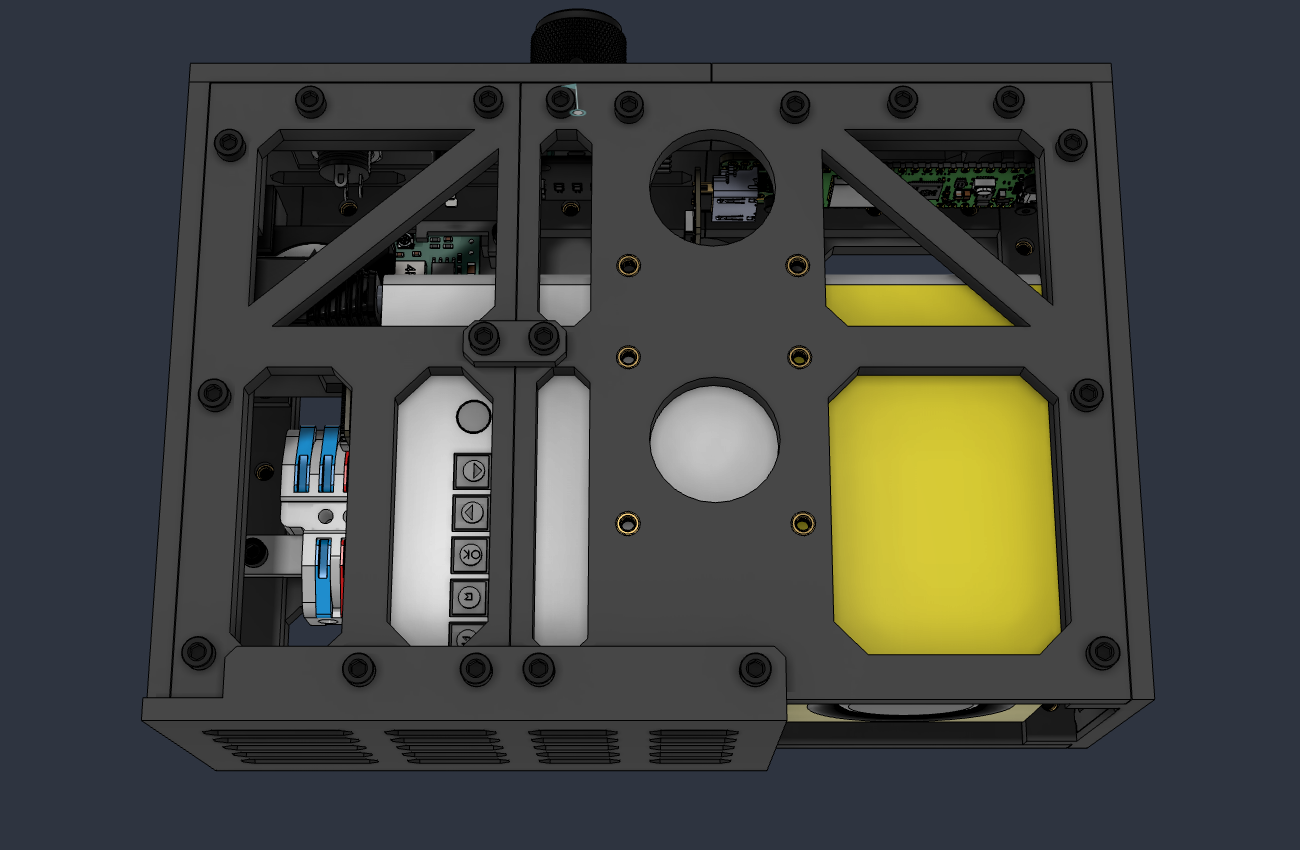
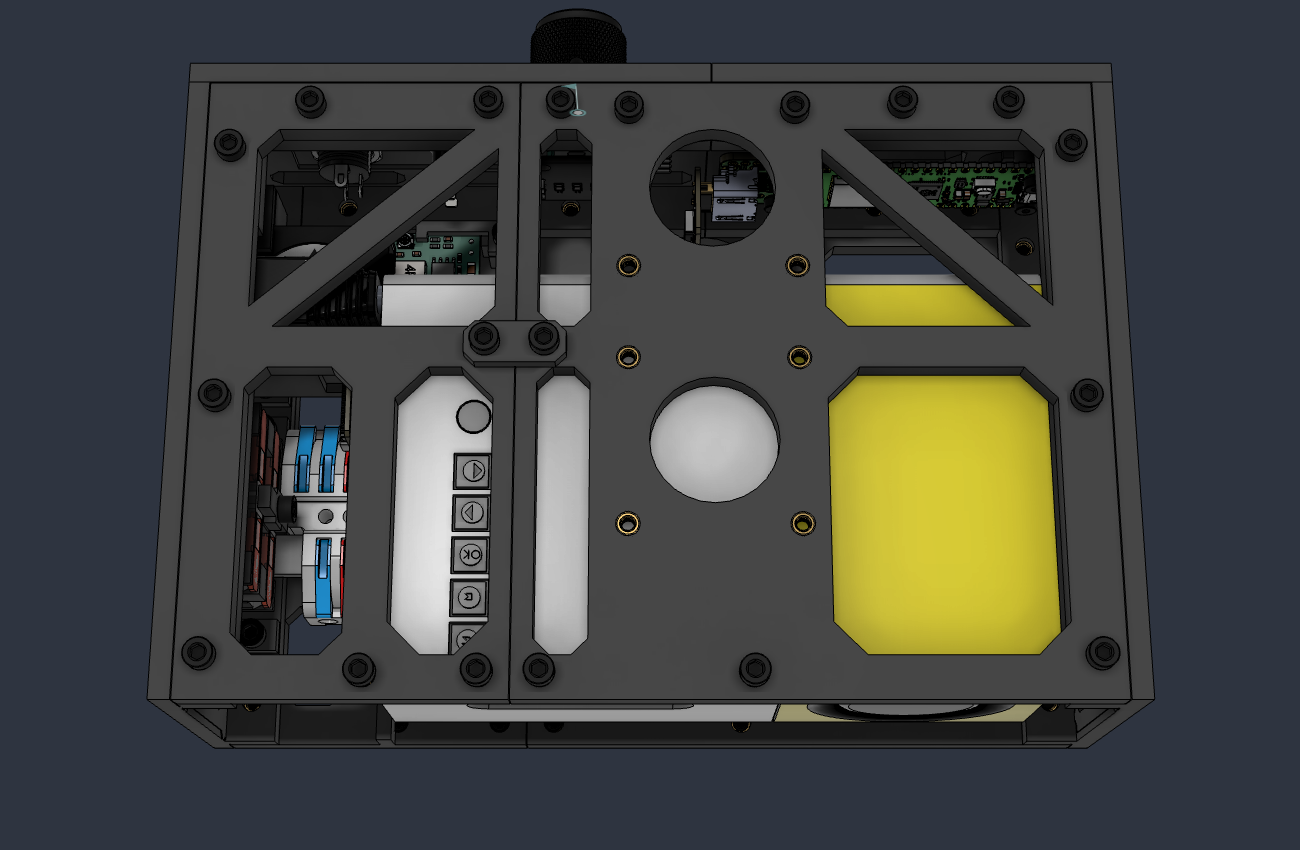
Enclosure: Wago holder, slicer step for the brackets, 127 fasteners
Two Wago 221-2411 in a bracket with a clamp bar on the port end frame. CAGE.md, README.md, DESIGN_LANGUAGE.md and cad/fasteners.json follow: 20 pieces, 127 fasteners, 126 copies. Slicer step for the blower bracket and the Wago bracket written down. Pictures 04, 05, 06 again, 10 is new. Fusion: komorebi-cage version 23, komorebi-box version 49.

Claude-Session: https://claude.ai/code/session_01QMJv3CE2wa8HX6C5WvgqiM

diff --git a/enclosure/CAGE.md b/enclosure/CAGE.md
@@ -28,7 +28,7 @@ More views are in [assets](assets): the underside with the seam strap and the tw
 7. [x] **Third review: front grill.** Done `2026-11-23`, see [Review, third round](#review-third-round) and [Front grill](#front-grill).
 8. [x] **Fastener models placed.** Done `2026-11-23`. Saurabh brought six models into `komorebi-box`. 108 copies sit on their places, see [Fastener models](#fastener-models).
 9. [x] **Sizes against the real projector, then the lips.** Done `2026-11-25`. The real projector did not fit front to back. The cage keeps its size, the lips changed, see [Projector stops](#projector-stops).
-10. [x] **Fourth review, after the first prints.** Done `2026-11-25`: clamp bars, M2.5 for the Pico, the terminal block, truss side panels, the blower. See [Review, fourth round](#review-fourth-round).
+10. [x] **Fourth review, after the first prints.** Done `2026-11-25`: clamp bars, M2.5 for the Pico, the terminal block, truss side panels, the blower, the Wago holder. See [Review, fourth round](#review-fourth-round).
 11. [ ] **Print what changed.** The list is in [Print again](#print-again).
 12. [ ] **Blower against the real heat sink.** Its place is a guess, see [Blower](#blower).
 13. [ ] **Assembly notes.**
@@ -68,7 +68,7 @@ From Saurabh on `2026-11-25`, after the first prints:
 
 ## Numbers
 
-All in mm, in the coordinates of `komorebi-box`: Y is up, the lens face is +Z, the projector's ports are on the -X end. The numbers of `2026-11-23` are the `P` table at the top of [cad/build_cage.py](cad/build_cage.py). The blocks `projector_stops`, `side_panels`, `terminal_block` and `blower` are not in the script, see [Fusion traps](#fusion-traps).
+All in mm, in the coordinates of `komorebi-box`: Y is up, the lens face is +Z, the projector's ports are on the -X end. The numbers of `2026-11-23` are the `P` table at the top of [cad/build_cage.py](cad/build_cage.py). The blocks `projector_stops`, `side_panels`, `terminal_block`, `blower` and `wago_holder` are not in the script, see [Fusion traps](#fusion-traps).
 
 ```json
 {
@@ -164,6 +164,13 @@ All in mm, in the coordinates of `komorebi-box`: Y is up, the lens face is +Z, t
     "bracket_screws_z": [-45.5, -33.65],
     "clamp_screw": [-115.0, -63.25]
   },
+  "wago_holder": {
+    "wago_x": [-118.5, -110.4],
+    "wago_z": [-20.3, 15.0],
+    "wago_y": [[15.7, 23.5], [30.7, 38.5]],
+    "bracket_screws_z": [-24.0, 19.0],
+    "clamp_screw": [27.1, -2.65]
+  },
   "holes": {
     "m3_insert": 4.0,
     "m3_clearance": 3.4,
@@ -194,6 +201,7 @@ Sizes are measured in `komorebi-box`. Use `root.allOccurrences` for that, see [F
 | Buck converter | `DC-DC 4.5-28V to 0.8-20V Output 3A MP1584EN Step Down Buck Converter` | 22.4 x 17.1 x 4.6 | On the bay floor, lifted 5 | `Buck converter holder: tray` and its clamp bar, one M3 |
 | Terminal block | `Terminal Block LT-422` | 23.4 x 14.5 x 39.5 | On the floor of the port bay, the four-wire end to the rear | `Terminal block holder: clamp bar`, one M3 and a peg |
 | Blower | `30mm Fan Mockup 3010 v5` | 30 x 30 x 10 | Flat in the port bay under the DC plug, inlet down, outlet to the projector | `Blower holder: bracket` and its clamp bar |
+| Wago, two of them | `Wago 221-2411 v2` | 7.8 x 8.1 x 35.3 | On the wall of the -X end frame beside the terminal block, one above the other, levers toward the bay | `Wago holder: bracket` and its clamp bar |
 | Light sensor | `BH1750` | flange 28 across, dome 25.5 | In its module, now on the floor, dome down | `Light sensor module: plate` |
 | Tripod adapter | `Bottom Adapter for Magic Arm Nut` | 60 x 60 x 10 | On the floor's tripod port, turned 45 degrees | Four M3 from outside |
 
@@ -203,7 +211,7 @@ The models say `Raspberry_Pi_Pico_W` and `Adafruit DVI Sock`. The real boards ar
 
 ## Printed parts
 
-In `komorebi-cage`: 17 components, 18 pieces with the second strap. Every part lies flat on the bed and needs no supports. The largest is 120 x 120, so a 5 mm brim fits everywhere.
+In `komorebi-cage`: 19 components, 20 pieces with the second strap. Every part lies flat on the bed and needs no supports. The largest is 120 x 120, so a 5 mm brim fits everywhere.
 
 | Part | Component | Copies | Size | What it is |
 | --- | --- | --- | --- | --- |
@@ -212,7 +220,7 @@ In `komorebi-cage`: 17 components, 18 pieces with the second strap. Every part l
 | Top plate | `Cage: top plate` | 1 | 110.1 x 119.8 x 5 | The +X part. Both module ports, the window over the lens end, one truss window |
 | Top plate, port | `Cage: top plate, port` | 1 | 59.8 x 119.8 x 5 | The -X part. Windows over the port bay and over the projector's buttons, one truss window |
 | End frame | `Cage: end frame` | 1 | 120 x 61 x 14 | The +X end. Web 4 thick with three truss bays, a flange at the bottom and at the top. Its bottom flange is the projector's end stop. See [Side panels](#side-panels) |
-| End frame, port | `Cage: end frame, port` | 1 | 120 x 61 x 14 | The -X end. The same three bays. The top flange has a notch for the DC plug at the rear. The bottom flange has three more inserts, for the terminal block and the blower |
+| End frame, port | `Cage: end frame, port` | 1 | 120 x 61 x 14 | The -X end. The same three bays. The top flange has a notch for the DC plug at the rear. The bottom flange has five more inserts, for the terminal block, the blower and the Wago holder |
 | Rear frame | `Cage: rear frame` | 1 | 77.4 x 61 x 17 | The +X part, behind the Pico. Window behind the Pico, two holes for the Pico holder |
 | Rear frame, port | `Cage: rear frame, port` | 1 | 100.9 x 61 x 17 | The -X part, with the knob, the button and the DC socket |
 | Seam strap | `Cage: seam strap` | 2 | 19 x 8 x 3 | Flat bar with two holes across the plate seam, on the outside. One on the floor, one on the top, in the middle of the seam |
@@ -223,6 +231,8 @@ In `komorebi-cage`: 17 components, 18 pieces with the second strap. Every part l
 | Terminal block clamp bar | `Terminal block holder: clamp bar` | 1 | 14 x 8.2 x 6 | Bar 3 thick with one hole and a peg 3 long, see [Terminal block](#terminal-block) |
 | Blower bracket | `Blower holder: bracket` | 1 | 39.7 x 29.8 x 32.2 | Foot, leg and three rails for the blower. Prints on its wall face, see [Blower](#blower) |
 | Blower clamp bar | `Blower holder: clamp bar` | 1 | 13.5 x 9 x 5.4 | Bar 2.4 thick with one hole and a peg 3 long. Prints peg up |
+| Wago bracket | `Wago holder: bracket` | 1 | 49.1 x 33.4 x 9.4 | Two pads, a back frame, seats for two Wagos and a boss with an insert. Prints on its wall face, see [Wago holder](#wago-holder) |
+| Wago clamp bar | `Wago holder: clamp bar` | 1 | 20.2 x 7 x 2.4 | Flat bar with one hole, narrow where it crosses the Wagos |
 | Sensor module | `Light sensor module: plate` | 1 | 44 x 44 x 4 | Plate with the dome hole and a seat for the sensor's flange |
 
 How it is built:
@@ -321,12 +331,28 @@ A 30 x 30 x 10 radial blower, added by Saurabh on `2026-11-25`. Air goes in on o
 - **The wires keep their room.** Under the rails 20 mm stay free above the floor, 9.5 above the buck tray.
 - **The bracket stands on the bottom flange of the -X end frame.** Two M3 x 8 into inserts in the flange. The blower rests on three rails, so the screws stay reachable and the inlet stays open.
 - **The blower goes in from above,** front edge under the lip of the bracket. The clamp bar holds the rear edge with one M3 x 8, its peg sits in the blower's mounting hole.
-- **The bracket prints on its wall face.** Every feature rises from that face, so it needs no supports.
+- **The bracket prints on its wall face.** Every feature rises from that face, so it needs no supports. In PrusaSlicer: Place on face, click the flat back. Z then reads 32.2.
 
 > [!Important]
 > **The place of the heat sink is a guess.** We take it on the -X side in the rear half, behind the vent slits of the cover. The outlet is 24.7 to 32.3 mm above the floor. About 9 of its 21 mm blow behind the projector's rear face. The HDMI plug is 1.2 mm in front of the blower, so it cannot move forward at this height. **Measure the heat sink in the open projector before printing the bracket.**
 
 ![Blower under the DC plug, top plate and projector hidden](assets/cage-09-blower.png)
+
+### Wago holder
+
+Two Wago 221-2411 splicing connectors, added by Saurabh on `2026-11-25`. They join the output of the buck converter to the wires of the blower. One Wago is 7.8 x 8.1 x 35.3.
+
+- **They sit on the wall of the -X end frame,** between the blower bracket and the front corner, beside the terminal block. One above the other, wires in and out along Z.
+- **The levers face the bay.** They are reached through the window of the port top plate.
+- **The bracket stands on the bottom flange of the -X end frame** with two pads. Two M3 x 8 into inserts in the flange, one before and one behind the Wagos, so a driver gets to both.
+- **A clamp bar holds both Wagos.** It crosses them in the middle, between the lever tips, with one M3 x 8 into an insert in the bracket.
+- **It is smaller than his old holder.** That one was 62.5 x 20 x 15.6 with two screw ears. This one stands 9.4 off the wall, 49.1 long and 33.4 high.
+- **The bracket prints on its wall face.** In PrusaSlicer: Place on face, click the flat back. Z then reads 9.4.
+
+> [!Important]
+> **The terminal block goes in first.** The screw of its clamp bar is under the Wagos. To take the terminal block out, the Wago bracket comes off first.
+
+![Two Wagos in their holder beside the terminal block, top plate and projector hidden](assets/cage-10-wago-holder.png)
 
 ### Buck tray
 
@@ -350,15 +376,15 @@ The holes are in the model. The list is [cad/fasteners.json](cad/fasteners.json)
 
 | Fastener | Count | Where |
 | --- | --- | --- |
-| **M3 heat-set insert**, 4.0 hole | 59 | 26 in the frame flanges for the plates, 12 in the four module ports, 8 in the plates for the front grill, 4 in the plates for the two seam straps, 2 in the Pico holder, 2 in the floor for the buck tray, 1 in the buck tray for its clamp bar, 3 in the bottom flange of the -X end frame for the terminal block and the blower bracket, 1 in the blower bracket for its clamp bar |
-| **M3 x 8**, cap head | 45 | 24 plate to frame, 8 front grill, 4 seam straps, 2 sensor module, 2 Pico holder, 1 buck clamp bar, 1 terminal block clamp bar, 2 blower bracket, 1 blower clamp bar |
+| **M3 heat-set insert**, 4.0 hole | 62 | 26 in the frame flanges for the plates, 12 in the four module ports, 8 in the plates for the front grill, 4 in the plates for the two seam straps, 2 in the Pico holder, 2 in the floor for the buck tray, 1 in the buck tray for its clamp bar, 5 in the bottom flange of the -X end frame for the terminal block, the blower bracket and the Wago bracket, 1 in the blower bracket and 1 in the Wago bracket for their clamp bars |
+| **M3 x 8**, cap head | 48 | 24 plate to frame, 8 front grill, 4 seam straps, 2 sensor module, 2 Pico holder, 1 buck clamp bar, 1 terminal block clamp bar, 2 blower bracket, 1 blower clamp bar, 2 Wago bracket, 1 Wago clamp bar |
 | **M3 x 12**, cap head | 2 | Sensor module, through the plate into the rear flange |
 | **M3 x 6**, cap head | 6 | 4 tripod adapter, 2 buck tray |
 | **M2.5 heat-set insert**, 4.0 hole | 4 | Pico holder posts |
 | **M2.5 x 5**, cap head | 4 | Pico and DVI sock onto the posts |
 | **1/4-20 x 10**, camera screw | 1 | Through the floor into the projector's own tripod thread |
 
-That is 121 in all. On `2026-11-23` it was 109: the twelve more are six inserts and six M3 x 8.
+That is 127 in all. On `2026-11-23` it was 109: the eighteen more are nine inserts and nine M3 x 8.
 
 Where the 26 frame screws are:
 
@@ -370,7 +396,8 @@ Where the 26 frame screws are:
 | Rear frame, port part | 4 | 4 |
 
 - **The port end frame has three on top again.** The DC plug sits at the rear now and has a notch in the flange there.
-- **Three inserts in the bottom flange of the port end frame go in from above.** They hold the terminal block clamp bar and the blower bracket.
+- **Five inserts in the bottom flange of the port end frame go in from above.** They hold the terminal block clamp bar, the blower bracket and the Wago bracket.
+- **One screw lies on its side:** the one of the Wago clamp bar goes in along X.
 - **Two of the rear screws on each plate are the rear holes of the bay port.** On the floor the sensor module sits there, so those two are its M3 x 12. On the top they are plain M3 x 8.
 - **Four of the eight grill inserts are the old front strap inserts.** Two per plate, left and right of the seam.
 - **No countersinks.** The cap heads stand proud.
@@ -383,17 +410,17 @@ Where the 26 frame screws are:
 
 | Kind in the list | Model in `komorebi-box` | Copies |
 | --- | --- | --- |
-| `M3 insert` | `M3 heat-set insert, 4.0 hole` | 59 |
-| `M3 x 8` | `M3 x 8 cap head` | 45 |
+| `M3 insert` | `M3 heat-set insert, 4.0 hole` | 62 |
+| `M3 x 8` | `M3 x 8 cap head` | 48 |
 | `M3 x 12` | `M3 x 12 cap head` | 2 |
 | `M3 x 6` | `M3 x 6 cap head` | 6 |
 | `M2.5 insert` | `M2.5 heat-set insert, 4.0 hole` | 4 |
 | `M2.5 x 5` | `M2.5 x 5 cap head` | 4 |
 | `1/4-20 x 10` | No model | 0 |
 
-- **The copies are in `komorebi-box`,** in the component `Fasteners`, 120 of them. Not in `komorebi-cage`: that file holds only what gets printed.
+- **The copies are in `komorebi-box`,** in the component `Fasteners`, 126 of them. Not in `komorebi-cage`: that file holds only what gets printed.
 - **[cad/place_fasteners.py](cad/place_fasteners.py) places them** from [cad/fasteners.json](cad/fasteners.json). It moves the copies, adds the missing ones and deletes the ones too many.
-- **The twelve new rows of `2026-11-25` were added to the list by hand,** and the copies were placed by hand. The list and the copies match, see [Checks](#checks).
+- **The eighteen new rows of `2026-11-25` were added to the list by hand,** and the copies were placed by hand. The list and the copies match, see [Checks](#checks).
 - **An insert sits flush with the mouth of its hole,** wide end out. A screw sits with the underside of its head on the part.
 - **The 1/4 inch screw has no model.** Saurabh's call. It stays in the list and in the count.
 
@@ -449,16 +476,18 @@ Saurabh on `2026-11-25`, with almost everything printed except the front grill:
 - **The real projector does not fit front to back, 5 mm more?** Two ways shown. His call: keep the cage, the grill stops it. See [Projector stops](#projector-stops).
 - **The DC plug sits at the wrong place in the model, and the side panels look wrong.** The plugs moved to the real places, lump sum from his photo. Both side panels are truss bays now, see [Side panels](#side-panels).
 - **A blower for the heat sink in the tight back corner.** Done, see [Blower](#blower).
+- **How is the blower bracket supposed to print?** On its wall face. The slicer step is written down now, see [Blower](#blower).
+- **Two Wagos between the buck converter and the blower's wires,** in a holder smaller than his old one. Done, see [Wago holder](#wago-holder).
 
 ---
 
 ## Checks
 
-Done on `2026-11-25` in `komorebi-cage` version 19 and `komorebi-box` version 43, by cutting the bodies with each other.
+Done on `2026-11-25` in `komorebi-cage` version 23 and `komorebi-box` version 49, by cutting the bodies with each other.
 
-- **No printed part cuts into another printed part.** All 18 pieces against each other.
-- **The blower, the DC plug, the HDMI plug and the two blower parts cut into nothing they should not.** The plugs sit in the projector's jacks, as before.
-- **Every fastener copy sits on its row of the list.** 120 of 120, checked by their boxes. The camera screw has no model.
+- **No printed part cuts into another printed part.** All 20 pieces against each other.
+- **The blower, the two Wagos, the DC plug, the HDMI plug and the four new holder parts cut into nothing they should not.** The plugs sit in the projector's jacks, as before.
+- **Every fastener copy sits on its row of the list.** 126 of 126, checked by their boxes. The camera screw has no model.
 - **Every printed part is inside 120 x 120.** With a 5 mm brim that is 130 x 130 on the 180 x 180 bed.
 
 Room around the new parts:
@@ -472,6 +501,10 @@ Room around the new parts:
 | DC plug and port top plate | 3.0 |
 | HDMI plug and terminal block | 16.5 |
 | Blower bracket and buck tray | 9.8 |
+| Wago bracket and blower bracket | 0.4 |
+| Wago and terminal block | 0.6 |
+| Wago clamp bar and terminal block | 1.9 |
+| Wago and HDMI plug | 15.5 |
 
 > [!Warning]
 > **Two M2.5 heads at the Pico's USB end sit 0.35 mm in the shell of the USB socket,** in the model. File a flat on the two heads, or put that pair back to M2.
@@ -487,6 +520,8 @@ From `2026-11-23`, not checked again:
 
 - [ ] **Place and height of the heat sink in the open projector.** The blower's place hangs on it, see [Blower](#blower).
 - [ ] **Blower: mounting hole and voltage.** The peg of the clamp bar is 2.0 mm, the hole in the mock-up is 2.4. The mock-up's label says 24 V, the supply is 12 V.
+- [ ] **Wago levers beside the clamp bar.** The bar is 4.5 wide where it crosses the Wagos, the gap between the lever tips is 6.5. Check on the real Wagos that the levers open.
+- [ ] **Wago beside the terminal block,** 0.6 mm in the model. Both places come from models, not from the real parts.
 - [ ] **Micro USB plug against the rear brace of the +X end frame.** By the numbers a plug body of 10 x 7 mm passes with about 1 mm, one of 11 mm touches. Measure the plug before printing that frame.
 - [ ] **Two M2.5 heads against the USB socket,** see [Checks](#checks).
 - [ ] **M2.5 insert hole,** 4.0 or 3.8, see [Fasteners](#fasteners).
@@ -497,7 +532,7 @@ From `2026-11-23`, not checked again:
 - [ ] **Which plug goes into the projector.** `HDMI-CY-17-UP` is plugged in now. Both CY models are 10.5 wide, which is mini HDMI size.
 - [ ] **Grill in front of the projector's front vent.** The middle slot row is on the vent, two mullions cross it. Not checked with the projector running.
 - [ ] **Head of the camera screw.** No model. A head up to 21 mm across clears the lip of the grill.
-- [ ] **[cad/build_cage.py](cad/build_cage.py) is behind the cage.** Bring it up to version 19 or retire it, see [Fusion traps](#fusion-traps).
+- [ ] **[cad/build_cage.py](cad/build_cage.py) is behind the cage.** Bring it up to version 23 or retire it, see [Fusion traps](#fusion-traps).
 - [x] **Lips or loose stops.** Decided on `2026-11-25`: fewer lips, the grill is the front stop, see [Projector stops](#projector-stops).
 - [x] **Snap hooks against the real board.** The snap arms are gone, a clamp bar holds the board, see [Buck tray](#buck-tray).
 
@@ -513,14 +548,16 @@ Print:
 2. **`Buck converter holder: tray`** and **`Buck converter holder: clamp bar`.**
 3. **`Pico holder: base`:** M2.5 posts.
 4. **`Terminal block holder: clamp bar`.**
-5. **`Blower holder: bracket`** and **`Blower holder: clamp bar`:** after the heat sink is measured.
+5. **`Blower holder: bracket`** and **`Blower holder: clamp bar`:** after the heat sink is measured. The bracket lies on its wall face, Z reads 32.2 in the slicer.
 6. **`Cage: front grill`:** not printed yet, print the current one.
+7. **`Wago holder: bracket`** and **`Wago holder: clamp bar`.** The bracket lies on its wall face, Z reads 9.4 in the slicer.
 
 Change by hand on the printed parts:
 
 1. **`Cage: top plate, port`:** drill one 3.4 mm hole, 8 mm from the front edge and 4.8 mm from the -X edge. A hole drilled earlier at 32.5 mm from the front edge is not used any more.
 2. **`Cage: floor plate`:** cut off the front lip.
 3. **`Cage: floor plate, port`:** cut off the front lip and the rear lip. The two side legs stay.
+4. **`Cage: end frame, port`,** if it was printed before the Wago holder came: drill two 4.0 mm holes for inserts into the bottom flange, 21 mm and 64 mm from the front edge, in the middle of the flange.
 
 ---
 
@@ -568,3 +605,6 @@ Change by hand on the printed parts:
 - [cad/fasteners.json](cad/fasteners.json) brought up by hand: M2 to M2.5, twelve new rows. All 120 copies checked against their rows.
 - All pictures taken again, [assets/cage-09-blower.png](assets/cage-09-blower.png) is new, the buck tray picture has a new name.
 - [DESIGN_LANGUAGE.md](DESIGN_LANGUAGE.md) made independent: its own reference section, sources and image folder [assets/doscher](assets/doscher). That folder is in `.gitignore`.
+- Saurabh asked how the blower bracket is supposed to print. It lies on its wall face. The slicer step is in [Blower](#blower) and in [Print again](#print-again) now.
+- He added two Wago 221-2411 for the blower's wires. Bracket and clamp bar for them on the wall of the port end frame, two more inserts in its bottom flange. 126 fastener models, 127 fasteners. `komorebi-cage` version 23, `komorebi-box` version 49.
+- Pictures 04, 05 and 06 taken again, [assets/cage-10-wago-holder.png](assets/cage-10-wago-holder.png) is new.

diff --git a/enclosure/README.md b/enclosure/README.md
@@ -19,6 +19,7 @@ enclosure/
 │   ├── cage-07-buck-tray.png
 │   ├── cage-08-front-grill.png
 │   ├── cage-09-blower.png
+│   ├── cage-10-wago-holder.png
 │   └── doscher/
 └── cad/
     ├── build_cage.py
@@ -34,13 +35,13 @@ enclosure/
 1. **[CAGE.md](CAGE.md), [Steps](CAGE.md#steps):** where the work stands and what comes next.
 2. **[CAGE.md](CAGE.md), [Rules for this cage](CAGE.md#rules-for-this-cage):** what Saurabh asked for.
 3. **[DESIGN_LANGUAGE.md](DESIGN_LANGUAGE.md), [Our rules](DESIGN_LANGUAGE.md#our-rules):** how a part has to look and print. Read it before changing a part.
-4. **[CAGE.md](CAGE.md), [Numbers](CAGE.md#numbers) and [Printed parts](CAGE.md#printed-parts):** the sizes, the seams, the front grill, the side panels, the blower.
+4. **[CAGE.md](CAGE.md), [Numbers](CAGE.md#numbers) and [Printed parts](CAGE.md#printed-parts):** the sizes, the seams, the front grill, the side panels, the blower, the Wago holder.
 5. **[cad/build_cage.py](cad/build_cage.py):** do not run it now. It is behind the cage since `2026-11-25`, see [Fusion traps](CAGE.md#fusion-traps). Changes go onto the bodies in `komorebi-cage`, then save.
 6. **`komorebi-box` in Fusion:** get the latest version of `komorebi-cage`.
 7. **[cad/fasteners.json](cad/fasteners.json), then [cad/place_fasteners.py](cad/place_fasteners.py):** add the rows for new fasteners, run the script in the tab of `komorebi-box`, save.
 8. **[CAGE.md](CAGE.md), [Checks](CAGE.md#checks) and [Fusion traps](CAGE.md#fusion-traps):** run the interference check, mind the traps.
 9. **[CAGE.md](CAGE.md), [Fasteners](CAGE.md#fasteners):** the counts for the shopping list. They come from [cad/fasteners.json](cad/fasteners.json).
-10. **[assets](assets), then the docs:** take the nine pictures again, update the numbers and the log in [CAGE.md](CAGE.md).
+10. **[assets](assets), then the docs:** take the ten pictures again, update the numbers and the log in [CAGE.md](CAGE.md).
 
 ## Documents
 
@@ -53,12 +54,12 @@ enclosure/
 
 | File Name | Highlights | Why it matters |
 | --- | --- | --- |
-| [cad/build_cage.py](cad/build_cage.py) | Builds the 13 printed parts of `2026-11-23` in the Fusion file `komorebi-cage`. All numbers in the **`P`** table at the top. The cage has 17 parts now | **Do not run it as it is.** It is behind the cage, see [Fusion traps](CAGE.md#fusion-traps). *A run would undo the work of `2026-11-25`* |
-| [cad/place_fasteners.py](cad/place_fasteners.py) | Places the fastener models in `komorebi-box`, in the component **`Fasteners`**. 120 copies of six models | Run it in the tab of `komorebi-box` after the link to the cage is on its latest version. *It can run again and again* |
-| [cad/fasteners.json](cad/fasteners.json) | **121 fasteners.** One row each: kind, group, seat point, the direction it goes in. `counts` at the top | Written by the build script on `2026-11-23`, the rows since then added by hand. The fastener models get placed from it |
+| [cad/build_cage.py](cad/build_cage.py) | Builds the 13 printed parts of `2026-11-23` in the Fusion file `komorebi-cage`. All numbers in the **`P`** table at the top. The cage has 19 parts now | **Do not run it as it is.** It is behind the cage, see [Fusion traps](CAGE.md#fusion-traps). *A run would undo the work of `2026-11-25`* |
+| [cad/place_fasteners.py](cad/place_fasteners.py) | Places the fastener models in `komorebi-box`, in the component **`Fasteners`**. 126 copies of six models | Run it in the tab of `komorebi-box` after the link to the cage is on its latest version. *It can run again and again* |
+| [cad/fasteners.json](cad/fasteners.json) | **127 fasteners.** One row each: kind, group, seat point, the direction it goes in. `counts` at the top | Written by the build script on `2026-11-23`, the rows since then added by hand. The fastener models get placed from it |
 
 ## Pictures
 
 Screenshots from `komorebi-box`, taken on `2026-11-25`. They get taken again when the cage changes.
 
-All nine show the split cage with the front grill and the fasteners in place. For picture 05 the top plate and its screws are hidden, for pictures 07 and 09 the projector too. Picture 07 also hides the blower and the two plugs.
+All ten show the split cage with the front grill and the fasteners in place. For picture 05 the top plate and its screws are hidden, for pictures 07, 09 and 10 the projector too. Picture 07 also hides the blower and the two plugs.

diff --git a/enclosure/DESIGN_LANGUAGE.md b/enclosure/DESIGN_LANGUAGE.md
@@ -129,7 +129,7 @@ The frame does not know the device. A small adapter sits between them. A differe
 
 - **Seen in:** Flat Hack, Obelisk, Recovery Kit 3, Open Frame.
 - **His hindsight on one build:** one adapter with all the mounts would have cut the part count.
-- **For us:** Pico holder, buck tray, sensor module, terminal block clamp bar, blower bracket. The cage got none of them as a cut-out for one device, only inserts.
+- **For us:** Pico holder, buck tray, sensor module, terminal block clamp bar, blower bracket, Wago bracket. The cage got none of them as a cut-out for one device, only inserts.
 
 ### 4. Print flat, no supports
 
@@ -242,7 +242,7 @@ This is what the images show. He does not write it down as rules.
 1. **Two plates, three frames.** Floor and top are flat plates. The two ends and the rear are upright frames. The front is open at the lens, the rest of it has a grill. Floor, top and rear are two parts each.
 2. **The frames carry the threads.** A frame is a web with a flange at the bottom and at the top. The inserts go into the flanges, the screws come from outside through the plates.
 3. **Variants differ only in a cut-out.** The two end frames have the same web. The port one has a notch in its top flange and three more inserts. The two plates share outline, ports and screw lines.
-4. **One adapter per device.** Pico holder, buck tray, sensor module, terminal block clamp bar, blower bracket. The controls hold themselves with their own nuts.
+4. **One adapter per device.** Pico holder, buck tray, sensor module, terminal block clamp bar, blower bracket, Wago bracket. The controls hold themselves with their own nuts.
 5. **Anything that may move between top and bottom is a module.** It bolts to a module port. Both plates have the same ports.
 6. **Nothing sits in front of a vent.** Boards stand upright against the rear frame or lie below the vent strip.
 7. **What a hand must reach stays open:** the projector's buttons, the focus lever, the ports, the Pico's USB, the screws of the DC plug.
@@ -358,3 +358,4 @@ All by Jay Doscher on doscher.com. Read on `2026-11-15`.
 Other:
 
 - [Recovery Kit 2 and 2B frame enclosure, print guidelines](https://raw.githubusercontent.com/jdoscher/Recovery-Kit-2-and-2B-Open-Source-Frame-Enclosure/main/License%20and%20Print%20Guidelines.txt) (GitHub)
+- Later the same day: the Wago bracket, the second part that prints on its wall face. The slicer step for such a part is written down in [CAGE.md](CAGE.md#print-again).
